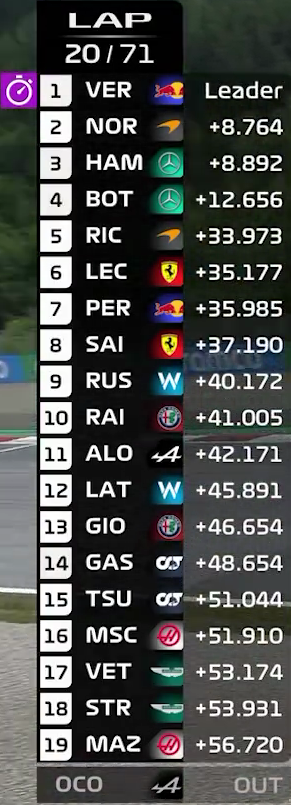
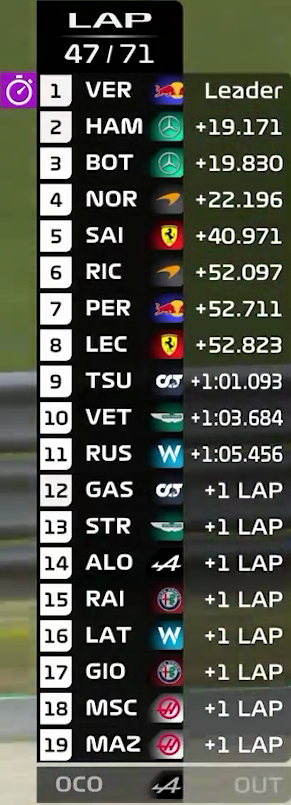
ISSUE-054 - Added +# LAP indicators to Leader mode. Added state for tracking the leader of the race since its something that is needed quite often.

diff --git a/src/features/event/eventSlice.ts b/src/features/event/eventSlice.ts
@@ -10,7 +10,8 @@ const DEFAULT_TYRE: Tyre = {
 };
 
 const initialState: RootState["event"] = {
-  trackName: "Melbourne",
+  trackName: "Circuit de Spa-Franchorchamps",
+  trackLength: 7004,
   courseStatus: {
     courseFlag: "green",
     sectorFlags: ["green", "green", "green"],
@@ -24,21 +25,22 @@ const initialState: RootState["event"] = {
     currentLap: 1,
     lapCount: 10,
   },
+  leaderGridSpot: 0,
   grid: [
     {
       position: 1,
       status: CarStatus.Normal,
       tyre: DEFAULT_TYRE,
-      notices: [],
-      distance: 2000 * 2,
+      notices: [CarNotice.FastestLap],
+      distance: 2000 * 4,
       driver: cloneDriver("verstappen"),
     },
     {
       position: 2,
       status: CarStatus.Normal,
       tyre: DEFAULT_TYRE,
-      notices: [CarNotice.FastestLap],
-      distance: 1900 * 2,
+      notices: [],
+      distance: 1900 * 4,
       driver: cloneDriver("hamilton"),
     },
     {
@@ -46,7 +48,7 @@ const initialState: RootState["event"] = {
       status: CarStatus.Normal,
       tyre: DEFAULT_TYRE,
       notices: [],
-      distance: 1800 * 2,
+      distance: 1800 * 4,
       driver: cloneDriver("bottas"),
     },
     {
@@ -54,7 +56,7 @@ const initialState: RootState["event"] = {
       status: CarStatus.Retired,
       tyre: DEFAULT_TYRE,
       notices: [],
-      distance: 1700 * 2,
+      distance: 1700 * 4,
       driver: cloneDriver("perez"),
     },
     {
@@ -62,7 +64,7 @@ const initialState: RootState["event"] = {
       status: CarStatus.Normal,
       tyre: DEFAULT_TYRE,
       notices: [],
-      distance: 1600 * 2,
+      distance: 1600 * 4,
       driver: cloneDriver("sainz"),
     },
     {
@@ -70,7 +72,7 @@ const initialState: RootState["event"] = {
       status: CarStatus.Retired,
       tyre: DEFAULT_TYRE,
       notices: [],
-      distance: 1500 * 2,
+      distance: 1500 * 4,
       driver: cloneDriver("norris"),
     },
     {
@@ -78,7 +80,7 @@ const initialState: RootState["event"] = {
       status: CarStatus.Normal,
       tyre: DEFAULT_TYRE,
       notices: [],
-      distance: 1400 * 2,
+      distance: 1400 * 4,
       driver: cloneDriver("leclerc"),
     },
     {
@@ -86,7 +88,7 @@ const initialState: RootState["event"] = {
       status: CarStatus.Normal,
       tyre: DEFAULT_TYRE,
       notices: [],
-      distance: 1300 * 2,
+      distance: 1300 * 4,
       driver: cloneDriver("ricciardo"),
     },
     {
@@ -94,7 +96,7 @@ const initialState: RootState["event"] = {
       status: CarStatus.Normal,
       tyre: DEFAULT_TYRE,
       notices: [],
-      distance: 1200 * 2,
+      distance: 1200 * 4,
       driver: cloneDriver("gasly"),
     },
     {
@@ -102,7 +104,7 @@ const initialState: RootState["event"] = {
       status: CarStatus.Normal,
       tyre: DEFAULT_TYRE,
       notices: [],
-      distance: 1100 * 2,
+      distance: 1100 * 4,
       driver: cloneDriver("alonso"),
     },
     {
@@ -110,7 +112,7 @@ const initialState: RootState["event"] = {
       status: CarStatus.Normal,
       tyre: DEFAULT_TYRE,
       notices: [],
-      distance: 1000 * 2,
+      distance: 1000 * 4,
       driver: cloneDriver("ocon"),
     },
     {
@@ -118,7 +120,7 @@ const initialState: RootState["event"] = {
       status: CarStatus.Normal,
       tyre: DEFAULT_TYRE,
       notices: [],
-      distance: 900 * 2,
+      distance: 900 * 4,
       driver: cloneDriver("vettel"),
     },
     {
@@ -126,7 +128,7 @@ const initialState: RootState["event"] = {
       status: CarStatus.Normal,
       tyre: DEFAULT_TYRE,
       notices: [],
-      distance: 800 * 2,
+      distance: 800 * 4,
       driver: cloneDriver("stroll"),
     },
     {
@@ -134,7 +136,7 @@ const initialState: RootState["event"] = {
       status: CarStatus.Normal,
       tyre: DEFAULT_TYRE,
       notices: [],
-      distance: 700 * 2,
+      distance: 700 * 4,
       driver: cloneDriver("tsunoda"),
     },
     {
@@ -142,7 +144,7 @@ const initialState: RootState["event"] = {
       status: CarStatus.Normal,
       tyre: DEFAULT_TYRE,
       notices: [],
-      distance: 600 * 2,
+      distance: 600 * 4,
       driver: cloneDriver("russell"),
     },
     {
@@ -150,7 +152,7 @@ const initialState: RootState["event"] = {
       status: CarStatus.Normal,
       tyre: DEFAULT_TYRE,
       notices: [],
-      distance: 500 * 2,
+      distance: 500 * 4,
       driver: cloneDriver("raikkonen"),
     },
     {
@@ -158,7 +160,7 @@ const initialState: RootState["event"] = {
       status: CarStatus.Normal,
       tyre: DEFAULT_TYRE,
       notices: [],
-      distance: 400 * 2,
+      distance: 400 * 4,
       driver: cloneDriver("latifi"),
     },
     {
@@ -166,7 +168,7 @@ const initialState: RootState["event"] = {
       status: CarStatus.Normal,
       tyre: DEFAULT_TYRE,
       notices: [],
-      distance: 300 * 2,
+      distance: 300 * 4,
       driver: cloneDriver("giovinazzi"),
     },
     {
@@ -174,7 +176,7 @@ const initialState: RootState["event"] = {
       status: CarStatus.Normal,
       tyre: DEFAULT_TYRE,
       notices: [],
-      distance: 200 * 2,
+      distance: 200 * 4,
       driver: cloneDriver("schumacher"),
     },
     {
@@ -182,7 +184,7 @@ const initialState: RootState["event"] = {
       status: CarStatus.Normal,
       tyre: DEFAULT_TYRE,
       notices: [],
-      distance: 1,
+      distance: 100 * 4,
       driver: cloneDriver("mazepin"),
     },
   ],
@@ -195,10 +197,22 @@ export const eventSlice = createSlice({
     setCourseFlag: (state, action: PayloadAction<CourseFlag>) => {
       state.courseStatus.courseFlag = action.payload;
     },
+    calculateLeader: (state) => {
+      let leader = 0;
+      let greatestDistance = Number.MIN_SAFE_INTEGER;
+      for (let p = 0; p < state.grid.length; ++p) {
+        if (state.grid[p].distance > greatestDistance) {
+          leader = p;
+          greatestDistance = state.grid[p].distance;
+        }
+      }
+      state.leaderGridSpot = leader;
+    },
   },
 });
 
 export const {
   setCourseFlag,
+  calculateLeader,
 } = eventSlice.actions;
 export default eventSlice.reducer;

diff --git a/src/components/BroadcastGraphics/TimingBoard/TimingTower/TimingTower.tsx b/src/components/BroadcastGraphics/TimingBoard/TimingTower/TimingTower.tsx
@@ -1,12 +1,13 @@
 import { useSelector } from "react-redux";
-import { broadcastGraphicsSelector } from "../../../../features/broadcast/graphics/broadcastGraphicsSelector";
 
+import { broadcastGraphicsSelector } from "../../../../features/broadcast/graphics/broadcastGraphicsSelector";
 import { eventSelector } from "../../../../features/event/eventSelector";
 import { BGTimingTowerModes, Car, CarNotice, CarStatus } from "../../../../types/state";
 import { Fraction } from "../../../../types/style";
 import { orMatch } from "../../../../utils/common";
 import { timeDiff } from "../../../../utils/event";
 import { formatTime } from "../../../../utils/styling";
+
 import { PositionFlag } from "../../Common/PositionFlag";
 import { TeamGem } from "../../Common/TeamGem";
 
@@ -30,7 +31,7 @@ export function TimingTower({
   carsToDisplay = 20,
 }: TimingTowerProps) {
 
-  const { grid } = useSelector(eventSelector);
+  const { grid, trackLength, leaderGridSpot } = useSelector(eventSelector);
   const { timingBoard } = useSelector(broadcastGraphicsSelector);
 
   const runningCars: Car[] = [];
@@ -58,24 +59,25 @@ export function TimingTower({
     let xScale: Fraction = 1.0;
     let yScale: Fraction = 1.0;
 
-    let leader = false;
+    let isLeader = false;
     if (forwardCarDistance === -1) {
-      leader = true;
+      isLeader = true;
       forwardCarDistance = car.distance;
     }
-    if (leader) {
+    if (isLeader) {
       rightHalfContent = timingBoard.timingTower.mode === BGTimingTowerModes.Leader
         ? "Leader" : timingBoard.timingTower.mode === BGTimingTowerModes.Interval
           ? "Interval" : "";
     } else if (car.status === CarStatus.Retired) {
       rightHalfContent = "OUT";
     } else {
-      rightHalfContent = `+${formatTime(timeDiff(
-        forwardCarDistance,
-        car.distance,
-      ), 60)}`;
-      xScale = rightHalfContent.includes(".") && rightHalfContent.length > 7 ? 0.75 : 0.9;
-      yScale = rightHalfContent.includes(".") ? 1.1 : 1.0;
+      const plusLaps = Math.floor((grid[leaderGridSpot].distance - car.distance) / trackLength);
+      rightHalfContent =
+      timingBoard.timingTower.mode === BGTimingTowerModes.Leader && plusLaps > 0
+        ? `+${plusLaps} LAP${plusLaps > 1 ? "S" : ""}`
+        : `+${formatTime(timeDiff(forwardCarDistance, car.distance), 60)}`;
+      xScale = rightHalfContent.includes(":") ? 0.75 : 0.9;
+      yScale = rightHalfContent.includes("+") ? 1.1 : 1.0;
     }
 
     if (timingBoard.timingTower.mode === BGTimingTowerModes.Interval) {

diff --git a/src/types/state.ts b/src/types/state.ts
@@ -70,9 +70,11 @@ export interface OverlayItem {
 // Event State
 export interface Event {
   trackName: string;
+  trackLength: Meters;
   courseStatus: CourseStatus;
   mode: EventMode;
   progress: EventProgress;
+  leaderGridSpot: GridSpot;
   grid: Grid;
 }
 export interface EventProgress {
@@ -107,6 +109,7 @@ export type CourseFlag =
 export type SafetyCarStatus = "clear" | "starting" | "out" | "ending";
 export type VirtualSafetyCarStatus = "clear" | "out" | "ending";
 export type Grid = Car[];  // Grid order does not change.
+export type GridSpot = number;
 export interface Car {
   position: number;
   driver: Driver;

diff --git a/src/components/BroadcastGraphics/TimingBoard/TimingTower/styles.ts b/src/components/BroadcastGraphics/TimingBoard/TimingTower/styles.ts
@@ -142,3 +142,4 @@ export const FastestLapGem = styled.div`
   background-size: 89%;
   background-position: center 40%;
 `;
+FastestLapGem.displayName = "FastestLapGem";
